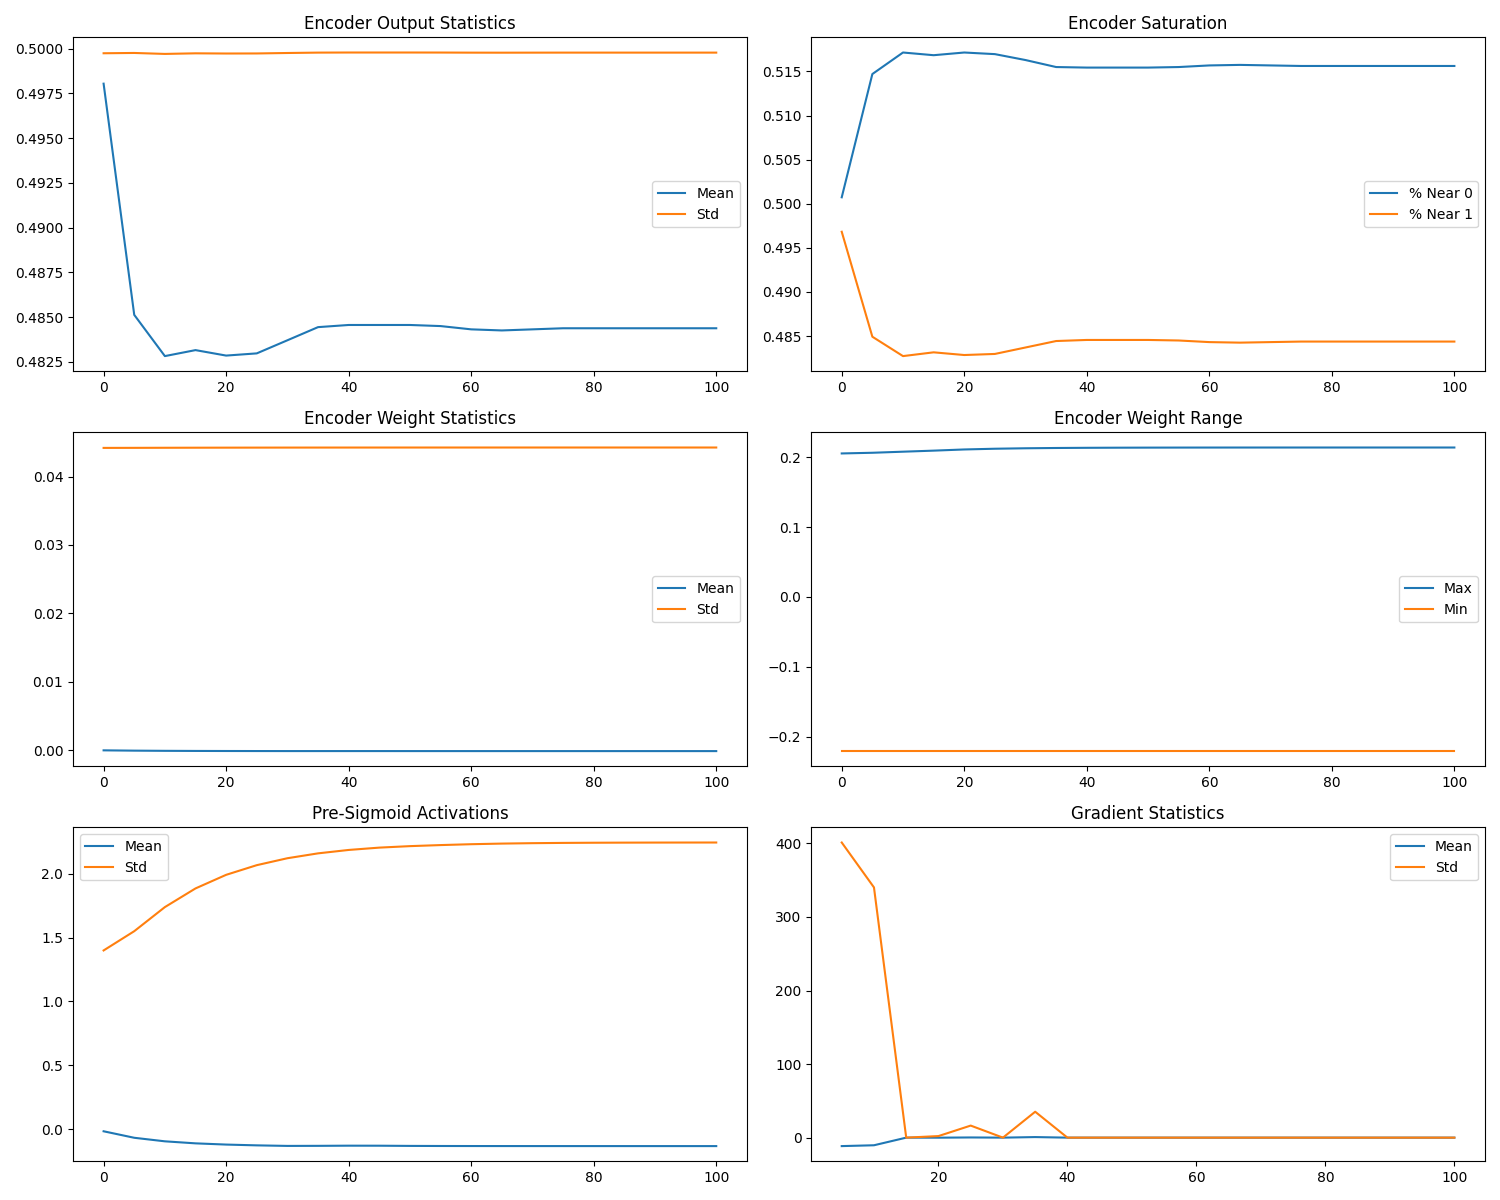
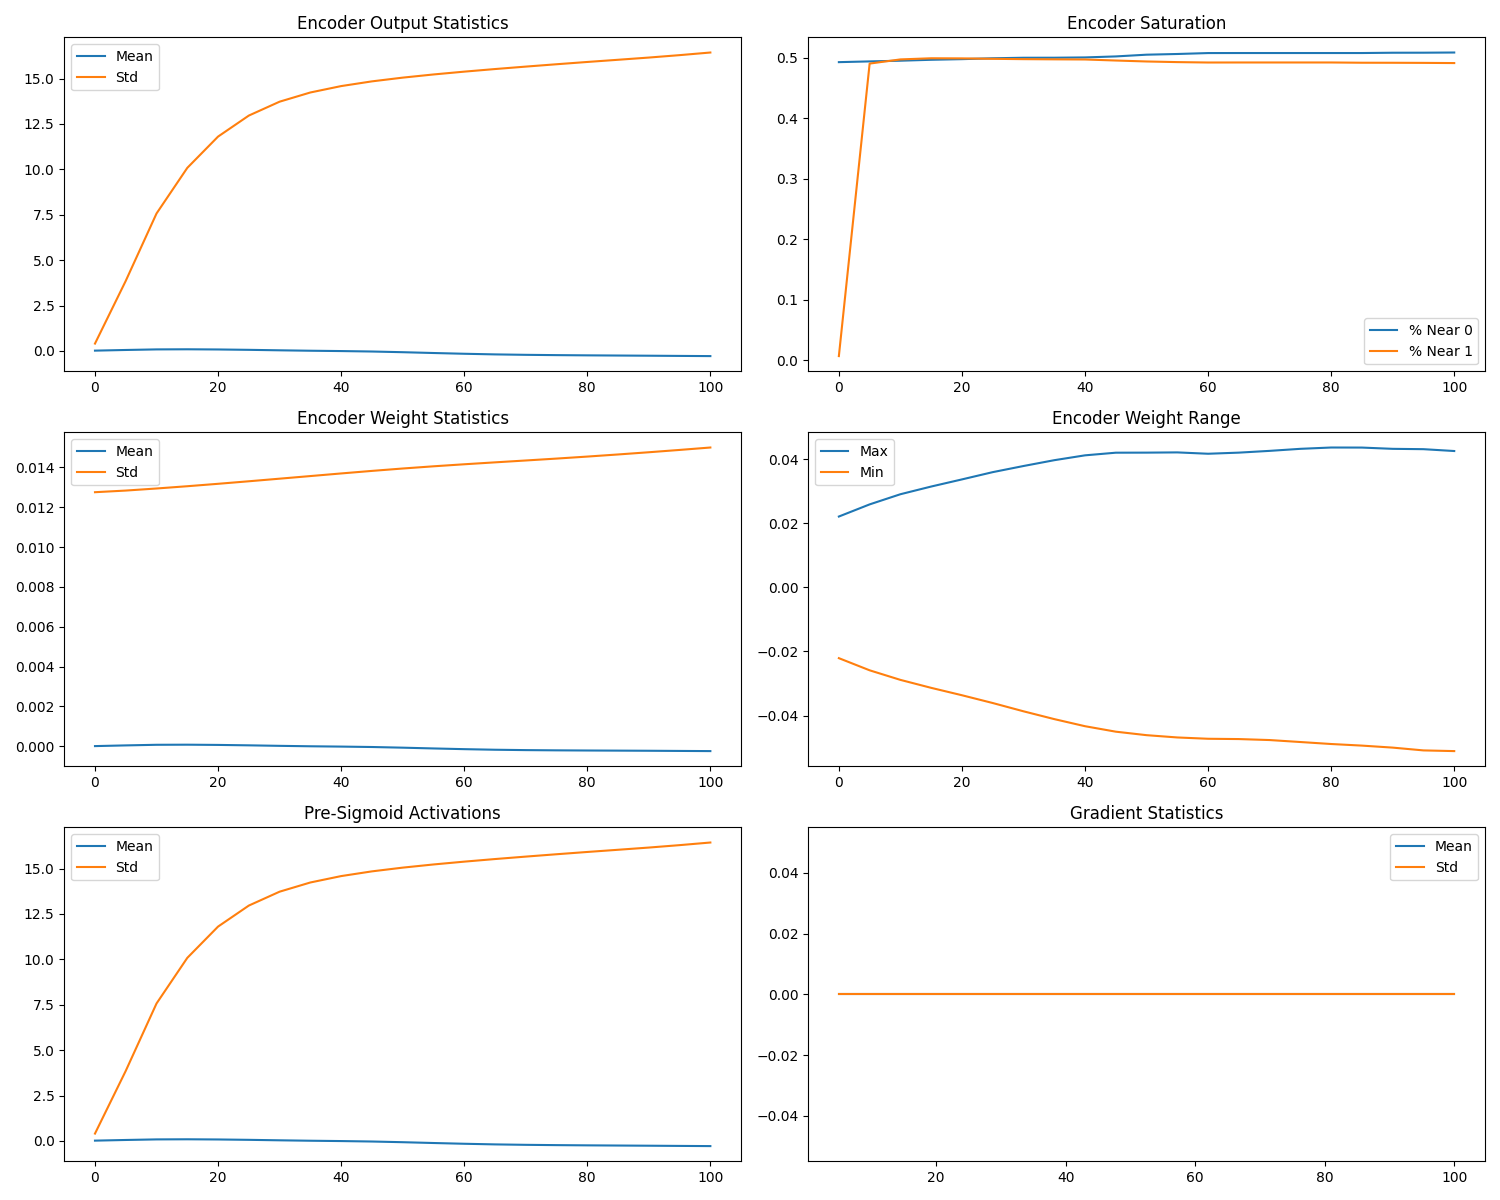
checkpoint: add negative evidence to training data, not helping

diff --git a/customSAE/sae_trainer.py b/customSAE/sae_trainer.py
@@ -65,6 +65,7 @@ class Trainer():
         latent, recon, carry = None, None, None
         batch_idx = 0
 
+        latents = []
         for batch in dataloader:
             batch_idx += 1
             batch = batch.to(self.device)
@@ -149,6 +150,11 @@ class Trainer():
                 print(f"Batch {batch_idx}: Loss is NaN! recon_loss={recon_loss.item()}, sparsity_loss={sparsity_loss.item()}")
                 continue
 
+            active_per_sample = latent.sum(dim=1)              # [B]
+            inactive_per_sample = self.config["hidden_dim"] - active_per_sample      # [B]
+            print(inactive_per_sample.float().std())
+
+
             optimizer.zero_grad(set_to_none=True)
             loss.backward()
 
@@ -177,7 +183,11 @@ class Trainer():
                         "recon_loss": recon_loss.item(),
                         "sparsity_loss": sparsity_loss.item(),
                         "carry_loss": carry_loss.item(),
-                        "inactivated_neurons": inactivated_neurons.item() if isinstance(inactivated_neurons, torch.Tensor) else inactivated_neurons
+                        "inactivated_neurons": inactivated_neurons.item() if isinstance(inactivated_neurons, torch.Tensor) else inactivated_neurons,
+                        "inactive_mean" : inactive_per_sample.float().mean(),
+                        "inactive_std"  : inactive_per_sample.float().std(),  # <= new!
+                        "inactive_min"  : inactive_per_sample.min(),
+                        "inactive_max"  : inactive_per_sample.max(),
                     })
                 else:
                     wandb.log({
@@ -218,11 +228,11 @@ class Trainer():
 # Configuration
 config = {
     "input_dim": 512,
-    "hidden_dim": 1024,
+    "hidden_dim": 512,
     "gamma": 4,
     "n_bits": 4,
     "epochs": 1,
-    "lr": 1e-2,
+    "lr": 1e-5,
     "sparsity_lambda": 1e-6,
     "carry_lambda": 1e-6,
     "batch_size": 256

diff --git a/customSAE/encoder_debug.py b/customSAE/encoder_debug.py
@@ -62,7 +62,7 @@ gradient_stats = {
 def analyze_encoder(model, test_batch, iteration, loss=None):
     # Get access to the linear layer and temperature sigmoid 
     linear_layer = model.encoder[0]
-    temp_sigmoid = model.encoder[1]
+    # temp_sigmoid = model.encoder[1]
     
     # Track linear weights statistics
     weight_stats = {
@@ -148,10 +148,17 @@ gradient_hook = setup_gradient_tracking(model)
 analyze_encoder(model, test_batch, 0)
 
 # Training loop
-n_iterations = 100
+n_iterations = 10000
+binary_latents = []
+last_binary_latents_sum = 0
 for i in range(1, n_iterations + 1):
     # Forward pass
     binary_latent, recon, carry = model(test_batch)
+    binary_latents.append(binary_latent)
+    binary_latents_sum = binary_latent.sum(dim=-1).mean()
+
+    if binary_latents_sum == last_binary_latents_sum:
+        print("Break break")
     
     # Calculate loss
     scale_factor = (2 ** torch.arange(config["n_bits"], device=device)).float()
@@ -255,8 +262,8 @@ print(f"Weight range: [{stats['weight_min'][-1]:.2f}, {stats['weight_max'][-1]:.
 
 # Temperature analysis
 print("\nTemperature analysis:")
-temp_value = model.encoder[1].temperature
-print(f"Current sigmoid temperature: {temp_value}")
-if temp_value > 10:
-    print("WARNING: Temperature is extremely high, causing immediate saturation!")
-    print(f"Recommended value: 0.5-2.0, current value: {temp_value}") 
+#temp_value = model.encoder[1].temperature
+# print(f"Current sigmoid temperature: {temp_value}")
+# if temp_value > 10:
+#     print("WARNING: Temperature is extremely high, causing immediate saturation!")
+#     print(f"Recommended value: 0.5-2.0, current value: {temp_value}") 

diff --git a/customSAE/hidden_state_dataset.py b/customSAE/hidden_state_dataset.py
@@ -70,6 +70,7 @@ class HiddenStatesTorchDatasetInBinary(Dataset):
         
         sample = sample.float()
         return self.quantize(sample)
+        # return self.quantize_weighted(sample)
     
     def quantize(self, sample):
 
@@ -81,6 +82,20 @@ class HiddenStatesTorchDatasetInBinary(Dataset):
         scaled_sample_expanded = scaled_sample.unsqueeze(-1)
     
         binary_repr = ((scaled_sample_expanded >> bit_positions) & 1).float()
+    
+        return binary_repr.view(-1) * 2 - 1
+
+    def quantize_weighted(self, sample):
+
+        scaled_sample = sample * self.scale_factor + self.shift_factor 
+        scaled_sample = torch.clamp(scaled_sample, 0, 2**self.n_bits - 1).round().int()
+
+        bit_positions = torch.arange(0, self.n_bits, device=scaled_sample.device)
+    
+        scaled_sample_expanded = scaled_sample.unsqueeze(-1)
+    
+        # binary_repr = ((scaled_sample_expanded >> bit_positions) & 1).float()
+        binary_repr = (scaled_sample_expanded & (1 << bit_positions)).float() / (1 << bit_positions).sum()
     
         return binary_repr.view(-1)
 
